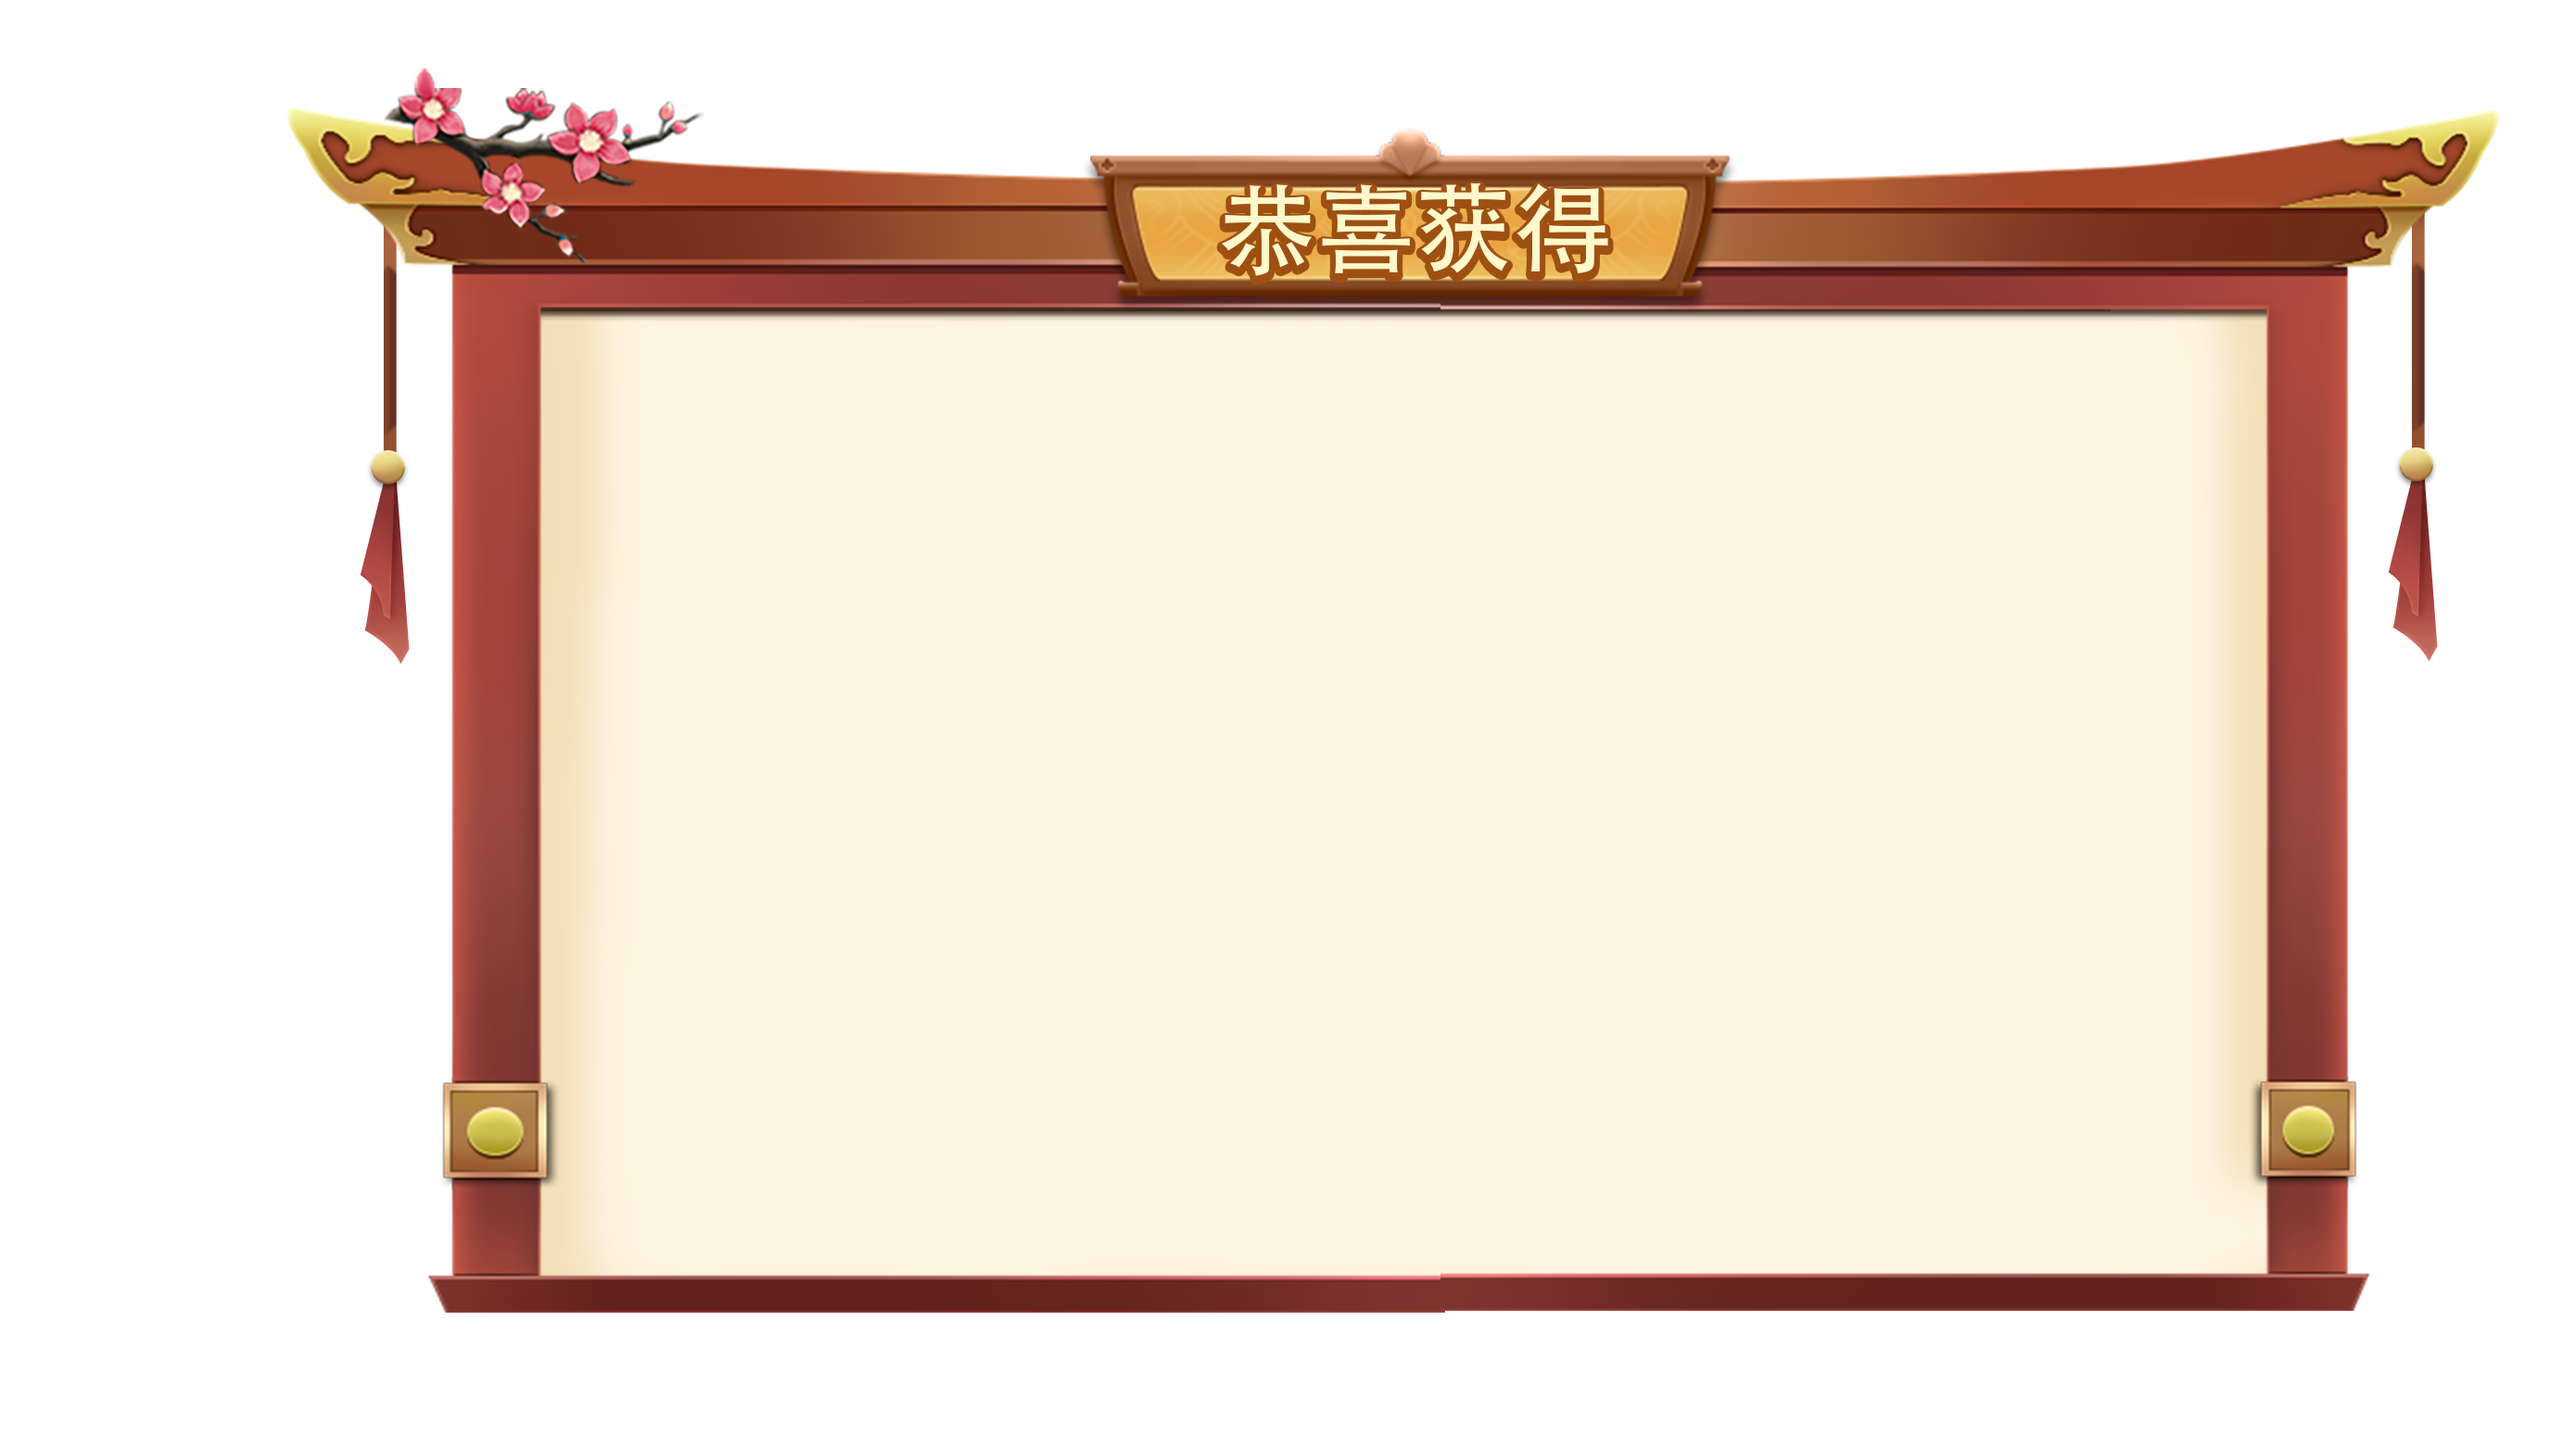
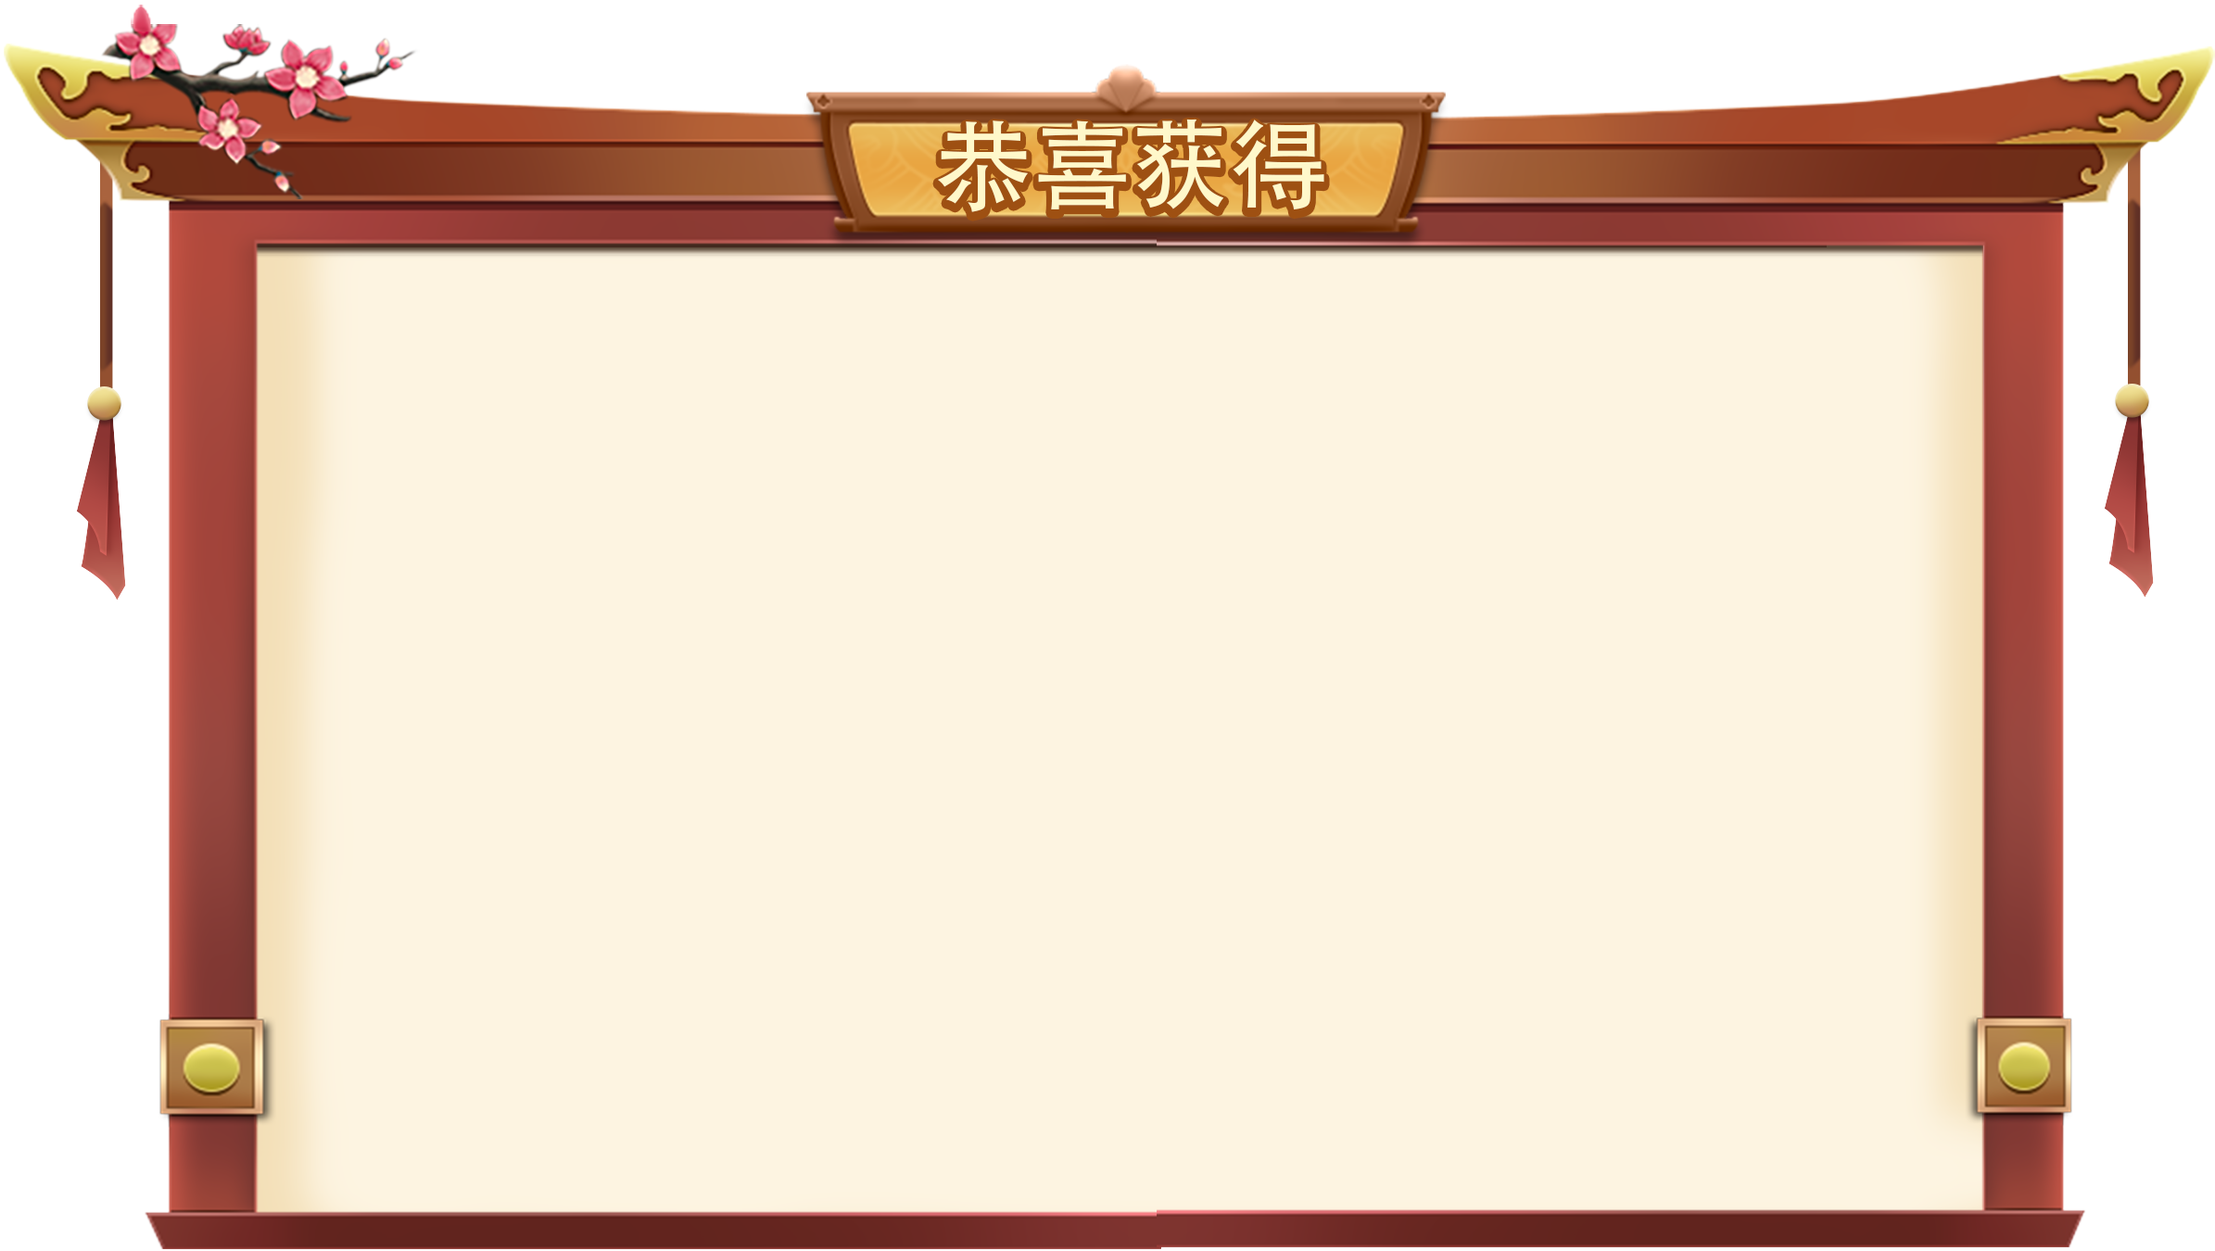
电脑端抽奖页面设计完成

diff --git a/src/features/lottery/styles/LotteryResult.css b/src/features/lottery/styles/LotteryResult.css
@@ -1,26 +1,44 @@
 .lottery-result {
-  width: 450px; /* 抽奖结果展示框宽度*/
-  height: 250px;/* 抽奖结果展示框高度*/ 
-  background: var(--color-card-bg);
-  border: 1px solid var(--color-border);
-  border-radius: 12px;
-  box-shadow: inset 0 2px 4px rgba(0, 0, 0, 0.05);
-  padding: 8px;
+  width: 450px;
+  height: 280px;
+  background: transparent;
+  border: none;
+  border-radius: 0;
+  padding: 42px;
   position: relative;
   display: flex;
   align-items: center;
   justify-content: center;
 }
 
+.lottery-background {
+  position: absolute;
+  top: -30px;
+  left: -54px;
+  right: -43px;
+  bottom: 9px;
+  background-image: url('/assets/images/lottery-frame.png');
+  background-size: 100% 100%;
+  background-position: center;
+  background-repeat: no-repeat;
+  z-index: 0;
+  pointer-events: none;
+}
+
 .lottery-result.empty {
   display: flex;
   align-items: center;
   justify-content: center;
+  min-height: 250px;
 }
 
 .empty-placeholder {
   color: var(--color-text-secondary);
   font-size: 0.9rem;
+  padding: 0.8rem 1.2rem;
+  background: rgba(242, 241, 233, 0.8);
+  border-radius: 4px;
+  z-index: 1;
 }
 
 /* 单抽布局 */
@@ -40,14 +58,14 @@
   display: grid;
   grid-template-columns: repeat(5, 85px);
   grid-template-rows: repeat(2, 85px);
-  gap: 4px;
-  padding: 52px;
+  gap: 1px;
+  padding: 62px 42px;
 }
 
 .lottery-result > .item-card {
   position: relative;
-  width: 85px;
-  height: 85px;
+  width: 80px;
+  height: 80px;
   cursor: pointer;
   animation: fadeIn 0.3s ease;
   border: 1px solid var(--color-border);
@@ -115,14 +133,15 @@
 /* 移动端适配 */
 @media (max-width: 480px) {
   .lottery-result {
-    height: 240px;
-    padding: 4px;
+    height: 270px;
+    padding: 32px 4px;
   }
   
   .lottery-result.multi {
     grid-template-columns: repeat(5, 85px);
     grid-template-rows: repeat(2, 85px);
     gap: 2px;
+    padding: 52px 32px;
   }
   
   .lottery-result.single .item-card,
@@ -130,12 +149,19 @@
     width: 85px;
     height: 85px;
   }
+  
+  .lottery-background {
+    top: -15px;
+    left: -15px;
+    right: -15px;
+    bottom: -15px;
+  }
 } 
 
 .lottery-result > .item-detail-popup {
   position: absolute !important;
-  top: 23px;/* 物品详情距离顶端的距离*/
-  right: 10px;/* 物品详情距离右边的详情*/
+  top: 39px;/* 物品详情距离顶端的距离*/
+  right: 18px;/* 物详情距离右边的详情*/
   width: 300px !important;
   min-width: 300px !important;
   max-width: 300px !important;

diff --git a/src/features/lottery/components/LotteryResult.jsx b/src/features/lottery/components/LotteryResult.jsx
@@ -46,6 +46,7 @@ const LotteryResult = memo(({ items, isSingle, type, quickMode }) => {
         }
       }}
     >
+      <div className="lottery-background" />
       {renderedItems.map((item, index) => (
         <div 
           key={`${item.id}-${index}`} 

diff --git a/src/features/lottery/styles/LotteryPage.css b/src/features/lottery/styles/LotteryPage.css
@@ -36,7 +36,7 @@
   background: rgba(242, 241, 233, 0.05);
   backdrop-filter: blur(8px);
   border-radius: 12px;
-  padding: 1rem;
+  padding: 0rem;
   border: 1px solid rgba(255, 255, 255, 0.1);
 }
 
